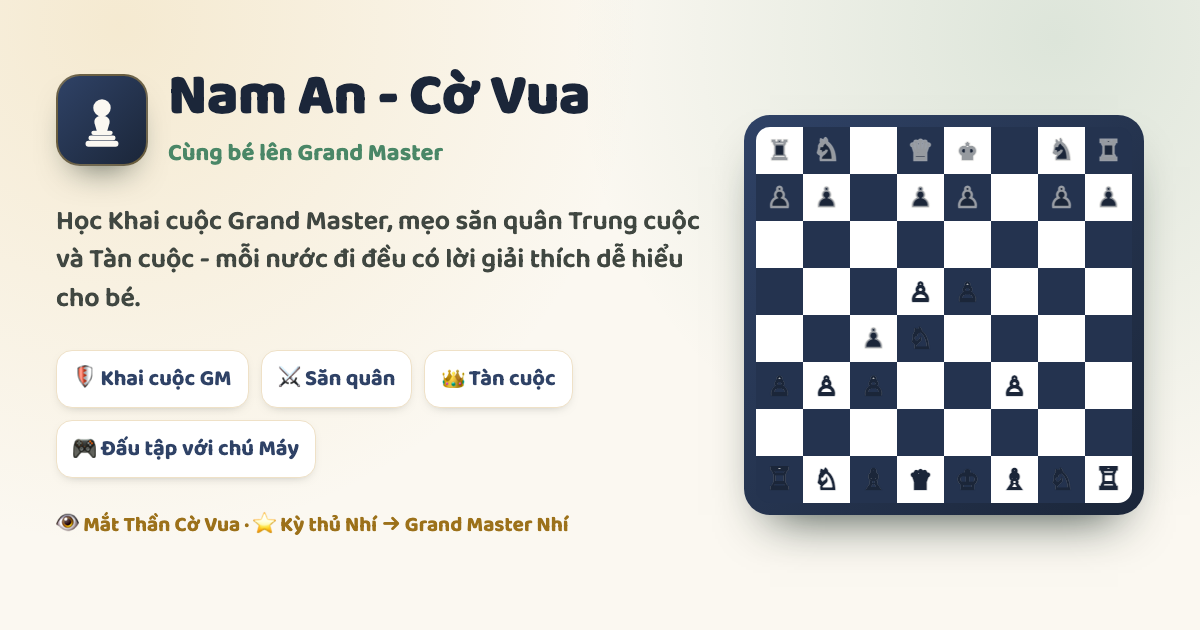
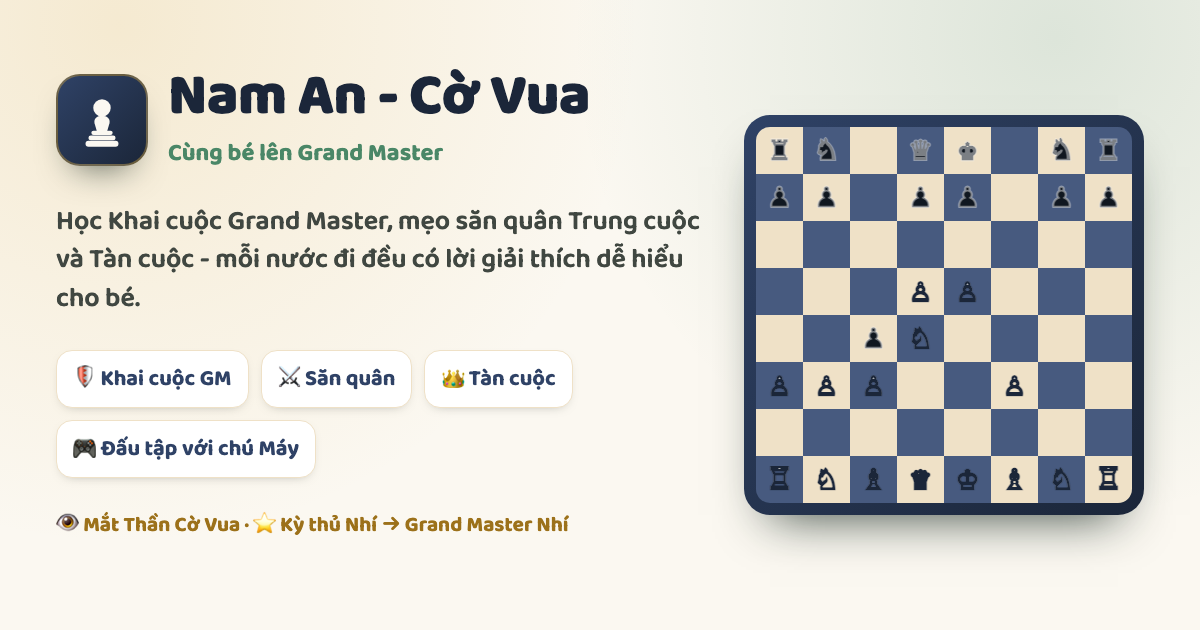
Nâng ô đậm của bàn cờ để quân Đen không chìm vào navy
Quân Đen là hình bóng đen tuyền, trên ô navy #24334f chỉ đạt 1.7:1 nên bé nhìn
không ra quân. Đổi ô đậm sang #475a7f (quân Đen 3:1, quân Trắng 6.9:1) và vì ô
sáng hơn nên mũi tên/vòng "quân cần đi" chuyển sang vàng đồng sáng #e8c471
(4.1:1 thay vì 2.3:1); hai màu ô nay là token board-light/board-dark để bài kiểm
tương phản đọc đúng giá trị đang dùng.

🤖 Generated with Codebuff

Changed region(s): [[0.6167, 0.181, 0.9558, 0.8143]]

diff --git a/scripts/check-contrast.ts b/scripts/check-contrast.ts
@@ -21,6 +21,10 @@ const tokens = new Map<string, string>()
 for (const match of css.matchAll(/--color-([a-z]+)-(\d{2,3}):\s*(#[0-9a-f]{6})/gi)) {
   tokens.set(`${match[1]}-${match[2]}`, match[3].toLowerCase())
 }
+// Token đặt tên theo VAI TRÒ thay vì theo thang độ đậm, ví dụ `--color-board-dark`.
+for (const match of css.matchAll(/--color-([a-z]+(?:-[a-z]+)+):\s*(#[0-9a-f]{6})/gi)) {
+  tokens.set(match[1], match[2].toLowerCase())
+}
 
 function token(name: string): string {
   const value = tokens.get(name)
@@ -79,9 +83,12 @@ const PAIRS: Pair[] = [
   { label: 'tab đang chọn: navy-800 / trắng', fg: token('brand-800'), bg: '#ffffff', min: TEXT },
 
   // --- Graphic: hình khối mang thông tin (ngưỡng 3:1)
-  { label: 'ô navy-800 / ô gỗ sand-200', fg: token('brand-800'), bg: token('sand-200'), min: GRAPHIC },
-  { label: 'viền ô gợi ý navy-800 / ô gỗ sand-200', fg: token('brand-800'), bg: token('sand-200'), min: GRAPHIC },
-  { label: 'vòng lỗi coral-500 / ô navy-800', fg: token('coral-500'), bg: token('brand-800'), min: GRAPHIC },
+  // Quân cờ nằm TRỰC TIẾP trên ô, nên đây mới là cặp quyết định “bé có nhìn ra quân
+  // không”. Quân Đen là hình bóng đen tuyền: ô đậm mà tối quá là quân biến mất.
+  { label: 'quân Đen / ô đậm của bàn cờ', fg: '#000000', bg: token('board-dark'), min: GRAPHIC },
+  { label: 'quân Trắng / ô đậm của bàn cờ', fg: '#ffffff', bg: token('board-dark'), min: GRAPHIC },
+  { label: 'viền ô gợi ý navy-800 / ô sáng', fg: token('brand-800'), bg: token('board-light'), min: GRAPHIC },
+  { label: 'vòng lỗi coral-500 / ô sáng', fg: token('coral-500'), bg: token('board-light'), min: GRAPHIC },
   // Viền thẻ (sand-300) là TRANG TRÍ, không phải biên của điều khiển: thẻ phân biệt
   // với nền nhờ bóng đổ + bo góc, nên không đưa vào ngưỡng 3:1 (muốn đạt 3:1 thì
   // viền phải sẫm như chữ, trông nặng nề).
@@ -89,18 +96,18 @@ const PAIRS: Pair[] = [
 
 /**
  * Vòng gợi ý trên bàn cờ: KHÔNG thể có một màu duy nhất đạt 3:1 trên cả ô gỗ sáng
- * (#efe1c7) lẫn ô navy (#24334f) - dải độ sáng thoả mãn cả hai chỉ rộng ~0.02, và
+ * (#efe1c7) lẫn ô navy sáng (#475a7f) - dải độ sáng thoả mãn cả hai chỉ rộng ~0.02, và
  * không màu nào có nghĩa (vàng / xanh thép) nằm trong đó. Yêu cầu thật của bé là
  * "nhìn ra vòng này trên ô đang đứng", nên mỗi vòng chỉ cần nổi trên MỘT trong hai
  * loại ô; phần nền phủ (alpha 0.3-0.42) và nhịp "thở" dày viền lo phần còn lại.
  */
 const HINT_RINGS: { label: string; ring: string; squares: string[] }[] = [
-  { label: 'vòng quân cần đi gold-500', ring: token('gold-500'), squares: [token('brand-800'), token('sand-200')] },
-  { label: 'vòng ô đích info-500', ring: token('info-500'), squares: [token('brand-800'), token('sand-200')] },
-  { label: 'vòng kế hoạch info-600', ring: token('info-600'), squares: [token('brand-800'), token('sand-200')] },
-  { label: 'vòng ô bé bấm info-600', ring: token('info-600'), squares: [token('brand-800'), token('sand-200')] },
-  { label: 'vòng nước sai coral-500', ring: token('coral-500'), squares: [token('brand-800'), token('sand-200')] },
-  { label: 'vòng nước đúng leaf-600', ring: token('leaf-600'), squares: [token('brand-800'), token('sand-200')] },
+  { label: 'vòng quân cần đi gold-300', ring: token('gold-300'), squares: [token('board-dark'), token('board-light')] },
+  { label: 'vòng ô đích info-500', ring: token('info-500'), squares: [token('board-dark'), token('board-light')] },
+  { label: 'vòng kế hoạch info-600', ring: token('info-600'), squares: [token('board-dark'), token('board-light')] },
+  { label: 'vòng ô bé bấm info-600', ring: token('info-600'), squares: [token('board-dark'), token('board-light')] },
+  { label: 'vòng nước sai coral-500', ring: token('coral-500'), squares: [token('board-dark'), token('board-light')] },
+  { label: 'vòng nước đúng leaf-600', ring: token('leaf-600'), squares: [token('board-dark'), token('board-light')] },
 ]
 
 let failed = 0

diff --git a/src/components/ChessBoardPanel.tsx b/src/components/ChessBoardPanel.tsx
@@ -32,12 +32,15 @@ export interface ChessBoardPanelProps {
 }
 
 //
-// Bàn cờ theo gam mới: ô GỖ SÁNG + ô NAVY, viền ngoài navy đậm. Chọn cặp này vì
-// ô gỗ ấm ăn với nền giấy kem, còn ô navy đủ đậm để quân trắng lẫn quân đen đều
-// nổi (tương phản quân trắng / ô sáng ~1.9:1 nhưng có viền quân, còn quân đen
-// trên ô gỗ ~9:1).
-const DARK_SQUARE: CSSProperties = { backgroundColor: '#24334f' }
-const LIGHT_SQUARE: CSSProperties = { backgroundColor: '#efe1c7' }
+// Bàn cờ theo gam mới: ô GỖ SÁNG + ô NAVY SÁNG, viền ngoài navy đậm.
+//
+// Ô đậm KHÔNG dùng navy-800 nữa: quân Đen (hình bóng đen tuyền) trên navy đậm
+// chỉ đạt 1.7:1 nên bé nhìn không ra quân. `board-dark` = #475a7f đưa quân Đen
+// lên 3:1 - đúng ngưỡng đọc được cho hình khối - mà vẫn đủ tối để mũi tên vàng
+// đồng nổi 3.2:1. Hai màu ô lấy từ token trong `src/index.css` để bài kiểm tương
+// phản đọc đúng giá trị đang dùng.
+const DARK_SQUARE: CSSProperties = { backgroundColor: 'var(--color-board-dark)' }
+const LIGHT_SQUARE: CSSProperties = { backgroundColor: 'var(--color-board-light)' }
 
 /**
  * Bàn cờ hoạt hình dành cho bé: kéo-thả hoặc bấm-chọn-đi,
@@ -88,7 +91,7 @@ export function ChessBoardPanel({
       Object.assign(styles, legalTargets(game, selected))
       styles[selected] = {
         ...(styles[selected] ?? {}),
-        boxShadow: 'inset 0 0 0 4px #d9a83f',
+        boxShadow: 'inset 0 0 0 4px #e8c471',
       }
     }
     if (extraSquareStyles) Object.assign(styles, extraSquareStyles)
@@ -182,7 +185,7 @@ export function ChessBoardPanel({
             squareStyles,
             darkSquareStyle: DARK_SQUARE,
             lightSquareStyle: LIGHT_SQUARE,
-            dropSquareStyle: { boxShadow: 'inset 0 0 0 5px #d9a83f' },
+            dropSquareStyle: { boxShadow: 'inset 0 0 0 5px #e8c471' },
             // Tự vẽ khung toạ độ bên dưới thay cho nhãn mặc định của thư viện.
             showNotation: false,
             animationDurationInMs: 280,

diff --git a/src/components/PageFallback.tsx b/src/components/PageFallback.tsx
@@ -2,11 +2,12 @@
  * Hiển thị trong lúc chờ file JS của một tab đang được tải về (code-splitting).
  *
  * Cố tình giữ thật nhẹ: chỉ vài thẻ div + emoji, không kéo theo thư viện nào.
- * Bàn cờ xương (skeleton) dùng đúng 2 màu ô của bàn cờ thật (#24334f / #efe1c7) và
- * đúng tỉ lệ 8×8 nên khi bàn cờ thật hiện ra bé gần như không thấy "nhảy" bố cục.
+ * Bàn cờ xương (skeleton) dùng đúng 2 màu ô của bàn cờ thật (`board-dark` /
+ * `board-light` trong `src/index.css`) và đúng tỉ lệ 8×8 nên khi bàn cờ thật hiện ra
+ * bé gần như không thấy "nhảy" bố cục.
  */
-const DARK_SQUARE = '#24334f'
-const LIGHT_SQUARE = '#ffffff'
+const DARK_SQUARE = 'var(--color-board-dark)'
+const LIGHT_SQUARE = 'var(--color-board-light)'
 
 // 64 ô, ô trên-trái là a8 (sáng). Cùng công thức (file + rank) % 2 như bàn cờ thật.
 const SKELETON_SQUARES = Array.from({ length: 64 }, (_, index) => {

diff --git a/src/index.css b/src/index.css
@@ -201,6 +201,17 @@
   --color-wood-800: #644a2c;
   --color-wood-900: #4a3722;
 
+  /**
+   * Ô CỜ - cặp màu của bàn cờ, KHÔNG theo vai trò giao diện.
+   *
+   * Ô đậm cố ý sáng hơn navy-800: quân Đen là hình bóng đen tuyền, trên navy
+   * #24334f chỉ đạt 1.7:1 nên gần như biến mất. #475a7f đưa quân Đen lên 3:1
+   * (mức đọc được cho hình khối) mà vẫn đủ tối để mũi tên vàng đồng #d9a83f nổi
+   * 3.2:1 - sáng hơn nữa là vàng mất hút, tối hơn nữa là quân Đen lại chìm.
+   */
+  --color-board-light: #efe1c7;
+  --color-board-dark: #475a7f;
+
   /* ĐỎ SON (vai trò: coral) */
   --color-coral-50: #fdf3f2;
   --color-coral-100: #fbe4e1;

diff --git a/src/lib/notation.ts b/src/lib/notation.ts
@@ -56,7 +56,12 @@ const VIETNAMESE: Record<PieceCode, string> = {
 }
 
 /** Màu vàng đồng của mũi tên chỉ nước đi kế tiếp. */
-export const ARROW_COLOR = '#d9a83f'
+/**
+ * Vàng đồng của mũi tên gợi ý trên bàn cờ - cố ý SÁNG hơn `gold-500` (#d9a83f):
+ * ô đậm của bàn cờ đã được nâng lên #475a7f để quân Đen không chìm, nên vàng
+ * đậm cũ chỉ còn 2.3:1. #e8c471 đạt 4.6:1 trên ô đậm và vẫn rõ trên ô gỗ sáng.
+ */
+export const ARROW_COLOR = '#e8c471'
 
 /**
  * Màu đỏ son của mũi tên báo **nước sắp tới CỦA ĐỐI THỦ** trong tab Đối phó.

diff --git a/README.md b/README.md
@@ -260,7 +260,12 @@ Quy ước bắt buộc: **vàng** chỉ dùng cho “quân cần đi / phần t
 hiểm” - hai màu này không bao giờ dùng lẫn ý. Mọi cặp chữ/nền được ghim bằng
 `npm run check:contrast` (ngưỡng WCAG AA 4.5:1).
 
-**Bàn cờ**: ô gỗ sáng `#efe1c7` + ô navy `#24334f`, viền ngoài navy đậm `#1b2639`.
+**Bàn cờ**: ô gỗ sáng `#efe1c7` + ô navy sáng `#475a7f`, viền ngoài navy đậm `#1b2639`.
+Hai màu ô là token riêng `--color-board-light` / `--color-board-dark`. Ô đậm cố ý **sáng hơn**
+navy-800: quân Đen là hình bóng đen tuyền, trên navy `#24334f` chỉ đạt 1.7:1 nên bé không nhìn ra
+quân; `#475a7f` đưa quân Đen lên 3:1 và quân Trắng lên 6.9:1. Đổi theo, mũi tên / vòng “quân cần
+đi” trên bàn cờ dùng vàng đồng sáng `#e8c471` (`ARROW_COLOR`) - vàng đậm cũ chỉ còn 2.3:1 trên ô
+này, còn vàng sáng đạt 4.6:1.
 
 ## 🔤 Font chữ (tự host)
 
